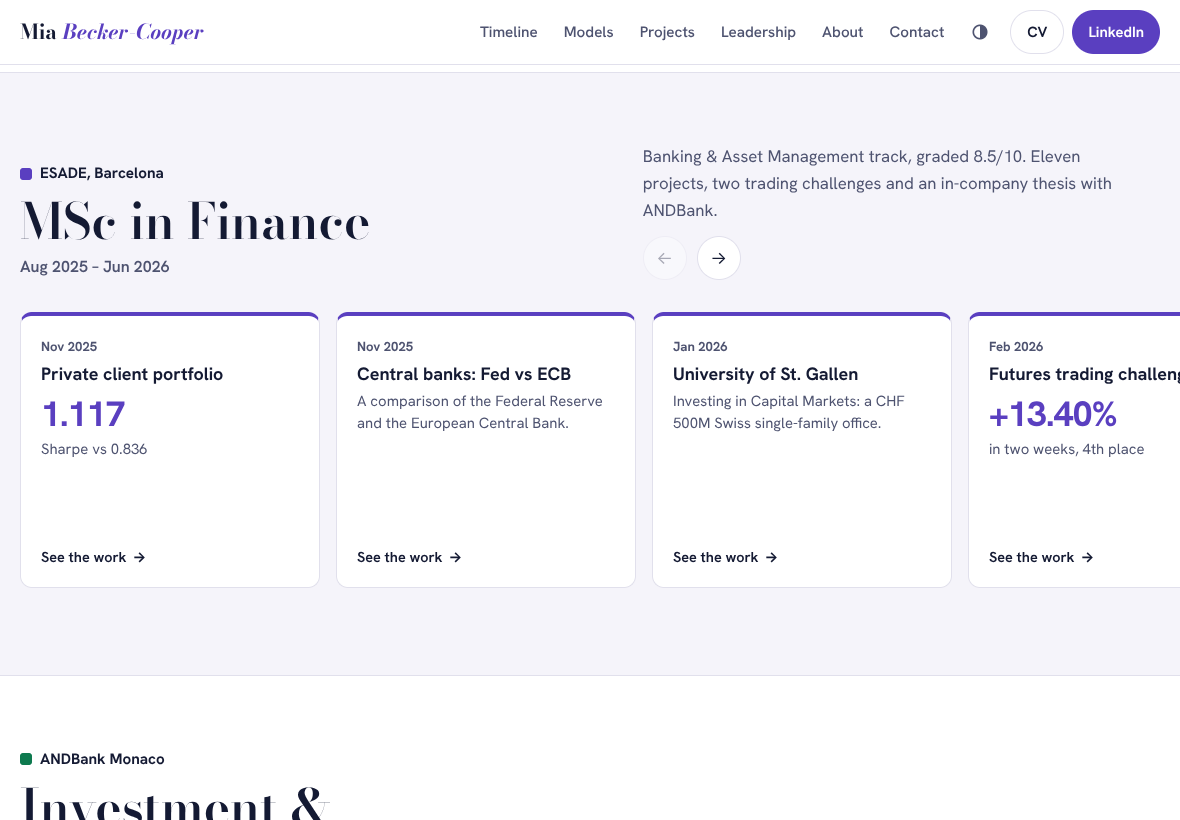
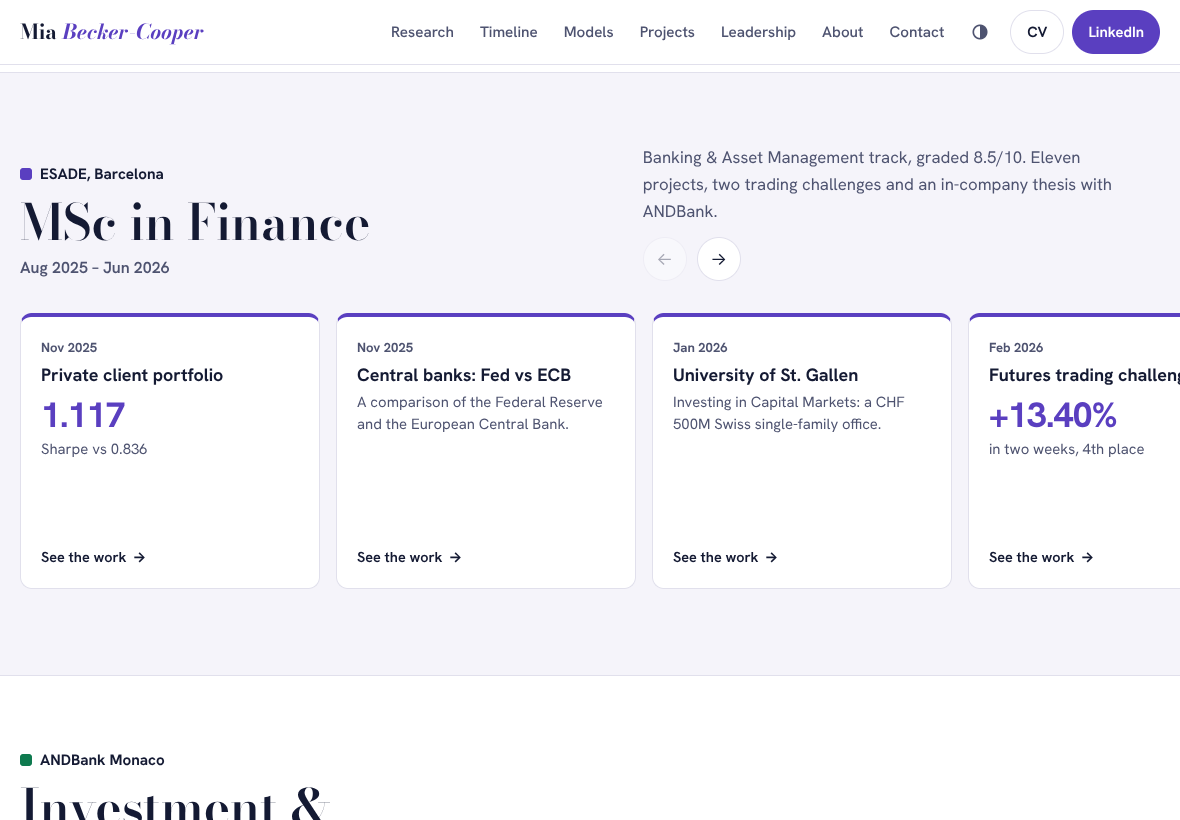
Add Selected research exhibit with chart previews from real numbers; personality type
- Four cards: IAG sensitivity heatmap, Substrate Sharpe vs deflated Sharpe, Nike valuation distribution, project book by area
- Each card cites its source like a research report and opens the matching live model
- About: ENFJ-A (Protagonist), type only
- Exhibits renumbered; header made more opaque over the ticker

Claude-Session: https://claude.ai/code/session_01PgLPWEbuqbnWUsPYwu5gvj

diff --git a/src/sections/Research.tsx b/src/sections/Research.tsx
@@ -1,0 +1,134 @@
+import { areas, models, projects, research } from "../content/cv";
+import { openModel } from "../lib/modelStore";
+
+const W = 320, H = 180;
+
+/** IAG: the real WACC × g grid as a heatmap. */
+function Heatmap() {
+  const { grid, wacc, g } = models.dcf;
+  const flat = grid.flat(), lo = Math.min(...flat), hi = Math.max(...flat);
+  const L = 40, T = 8, B = 22, cw = (W - L - 6) / g.length, ch = (H - T - B) / wacc.length;
+  return (
+    <>
+      {grid.map((row, i) => row.map((v, j) => {
+        const t = (v - lo) / (hi - lo);
+        return <rect key={`${i}-${j}`} x={L + j * cw} y={T + i * ch} width={cw - 2} height={ch - 2} rx={2}
+          fill="var(--accent)" opacity={0.12 + 0.85 * t} />;
+      }))}
+      {wacc.map((w, i) => (i % 2 === 0 ? <text key={w} x={L - 6} y={T + i * ch + ch / 2 + 4} textAnchor="end" className="rc-t">{w.toFixed(1)}%</text> : null))}
+      {g.map((x, j) => <text key={x} x={L + j * cw + cw / 2} y={H - 6} textAnchor="middle" className="rc-t">{x.toFixed(1)}%</text>)}
+    </>
+  );
+}
+
+/** Substrate: Sharpe and deflated Sharpe for variants A–D. */
+function Variants() {
+  const v = models.backtest.variants, max = 1.2, L = 8, B = 22, T = 10, gw = (W - L * 2) / v.length;
+  const y = (x: number) => T + (1 - x / max) * (H - T - B);
+  return (
+    <>
+      {v.map((d, i) => {
+        const x0 = L + i * gw + gw * 0.18, bw = gw * 0.3;
+        return (
+          <g key={d.id}>
+            <rect x={x0} y={y(d.sharpe)} width={bw} height={y(0) - y(d.sharpe)} rx={2} fill="var(--ink-2)" opacity={0.45} />
+            <rect x={x0 + bw + 3} y={y(d.dsr)} width={bw} height={y(0) - y(d.dsr)} rx={2} fill={d.pitched ? "var(--accent)" : "var(--ink-2)"} />
+            <text x={x0 + bw} y={H - 6} textAnchor="middle" className="rc-t">{d.id}</text>
+          </g>
+        );
+      })}
+      <line x1={L} x2={W - L} y1={y(0)} y2={y(0)} stroke="var(--line)" />
+      <rect x={W - 150} y={T - 2} width={9} height={9} rx={2} fill="var(--ink-2)" opacity={0.45} />
+      <text x={W - 137} y={T + 6} className="rc-t">Sharpe</text>
+      <rect x={W - 86} y={T - 2} width={9} height={9} rx={2} fill="var(--accent)" />
+      <text x={W - 73} y={T + 6} className="rc-t">Deflated</text>
+    </>
+  );
+}
+
+/** Nike: the two-piece lognormal density implied by the reported median, P10 and P90 (drawn, not sampled). */
+function Distribution() {
+  const { median, p10, p90, price } = models.mc;
+  const z = 1.2815515655, sLo = Math.log(median / p10) / z, sHi = Math.log(p90 / median) / z;
+  const pdf = (x: number) => { const s = x < median ? sLo : sHi; const k = Math.log(x / median) / s; return Math.exp(-0.5 * k * k) / (x * s); };
+  const lo = 20, hi = 160, n = 36, L = 8, B = 22, T = 10;
+  const xs = Array.from({ length: n }, (_, i) => lo + ((i + 0.5) * (hi - lo)) / n);
+  const ds = xs.map(pdf), max = Math.max(...ds), bw = (W - L * 2) / n;
+  const X = (v: number) => L + ((v - lo) / (hi - lo)) * (W - L * 2);
+  return (
+    <>
+      {xs.map((x, i) => {
+        const h = (ds[i] / max) * (H - T - B);
+        return <rect key={i} x={L + i * bw + 1} y={H - B - h} width={bw - 2} height={h} rx={1} fill={x < price ? "var(--loss)" : "var(--accent)"} opacity={0.85} />;
+      })}
+      <line x1={X(price)} x2={X(price)} y1={T} y2={H - B} stroke="var(--ink)" strokeDasharray="3 3" />
+      <text x={X(price) - 4} y={T + 10} textAnchor="end" className="rc-t rc-halo">Price ${price.toFixed(2)}</text>
+      <text x={W - L} y={T + 10} textAnchor="end" className="rc-t">{models.mc.probLabel}</text>
+      {[40, 80, 120].map((v) => <text key={v} x={X(v)} y={H - 6} textAnchor="middle" className="rc-t">${v}</text>)}
+    </>
+  );
+}
+
+/** Project book: count of projects per area, as a donut. */
+function Allocation() {
+  const counts = areas.filter((a) => a.id !== "all").map((a) => ({ a, n: projects.filter((p) => p.area === a.id).length }));
+  const total = counts.reduce((s, c) => s + c.n, 0), cx = 90, cy = H / 2, r = 62, w = 22;
+  const colour: Record<string, string> = { quant: "var(--steel)", valuation: "var(--violet)", derivatives: "var(--green)", wealth: "#8A6CF0", macro: "var(--ember)" };
+  let acc = 0;
+  return (
+    <>
+      {counts.map(({ a, n }) => {
+        const start = (acc / total) * 2 * Math.PI, end = ((acc + n) / total) * 2 * Math.PI; acc += n;
+        const p = (t: number, rr: number) => `${cx + rr * Math.sin(t)},${cy - rr * Math.cos(t)}`;
+        const large = end - start > Math.PI ? 1 : 0;
+        return <path key={a.id} d={`M${p(start, r)} A${r},${r} 0 ${large} 1 ${p(end - 0.02, r)} L${p(end - 0.02, r - w)} A${r - w},${r - w} 0 ${large} 0 ${p(start, r - w)} Z`} fill={colour[a.id]} />;
+      })}
+      <text x={cx} y={cy + 8} textAnchor="middle" className="rc-big">{total}</text>
+      {counts.map(({ a, n }, i) => (
+        <g key={a.id} transform={`translate(176, ${28 + i * 27})`}>
+          <rect width={10} height={10} rx={2} fill={colour[a.id]} y={-9} />
+          <text x={16} className="rc-l">{a.label} · {n}</text>
+        </g>
+      ))}
+    </>
+  );
+}
+
+const CHARTS = { heatmap: Heatmap, variants: Variants, distribution: Distribution, allocation: Allocation };
+
+export function Research() {
+  return (
+    <section className="block research" id="research" aria-labelledby="research-title">
+      <div className="wrap">
+        <div className="sec-top">
+          <div>
+            <p className="kicker">{research.label}</p>
+            <h2 className="section-title" id="research-title">{research.title}</h2>
+          </div>
+          <p className="section-intro">{research.intro}</p>
+        </div>
+        <ul className="rcards">
+          {research.cards.map((c) => {
+            const Chart = CHARTS[c.kind];
+            return (
+              <li key={c.kind}>
+                <article className="rcard">
+                  <div className="rchart">
+                    <svg viewBox={`0 0 ${W} ${H}`} role="img" aria-label={`${c.title}: ${c.body}`}><Chart /></svg>
+                  </div>
+                  <p className="rsub">{c.sub}</p>
+                  <h3>{c.title}</h3>
+                  <p className="rbody">{c.body}</p>
+                  <p className="rsrc">{c.source}</p>
+                  {c.model
+                    ? <button type="button" className="rcta" onClick={() => openModel(c.model)}>{c.cta} <span aria-hidden="true">→</span></button>
+                    : <a className="rcta" href="#projects">{c.cta} <span aria-hidden="true">→</span></a>}
+                </article>
+              </li>
+            );
+          })}
+        </ul>
+      </div>
+    </section>
+  );
+}

diff --git a/src/content/cv.ts b/src/content/cv.ts
@@ -26,6 +26,7 @@ export const identity = {
 };
 
 export const nav = [
+  { label: "Research", href: "#research" },
   { label: "Timeline", href: "#timeline" },
   { label: "Models", href: "#models" },
   { label: "Projects", href: "#projects" },
@@ -53,10 +54,28 @@ export const ticker = [
   "MSc thesis ▲ 85%",
 ];
 
+/* ---------------- Selected research: chart previews from real numbers ---------------- */
+
+export const research = {
+  label: "Exhibit 1 · Selected research",
+  title: "The work, in four charts",
+  intro: "Each chart is drawn from the numbers in the final report. Open one to move the inputs yourself.",
+  cards: [
+    { kind: "heatmap", title: "Equity valuation", sub: "IAG · DCF sensitivity", body: "Value per share across 9 discount rates and 5 growth rates. Every cell stays above the €4.60 share price.",
+      source: "Source: IAG valuation, Corporate Valuation, Mar 2026. Team 6.", model: "dcf", cta: "Move the inputs" },
+    { kind: "variants", title: "Systematic investing", sub: "Substrate Capital · simulated", body: "Four versions tested and all reported. Deflating the Sharpe ratio separates the 130/30 books from noise.",
+      source: "Source: Substrate Capital pitch, Asset Management, Jun 2026. Simulated backtest.", model: "backtest", cta: "Open the backtest lab" },
+    { kind: "distribution", title: "Probabilistic valuation", sub: "Nike · Monte Carlo", body: "A distribution instead of a point estimate: about 75% of outcomes above the $52.40 share price.",
+      source: "Source: Nike activist valuation, Mar 2026. Simulated, reconstructed from the reported median and P10–P90.", model: "mc", cta: "Rerun the simulation" },
+    { kind: "allocation", title: "Project book", sub: "11 projects · by area", body: "Where the work sits: valuation, quant and trading, derivatives and rates, wealth management and macro.",
+      source: "Source: finance-portfolio repository, Nov 2025 – Jun 2026.", model: "", cta: "Browse the projects" },
+  ] as { kind: "heatmap" | "variants" | "distribution" | "allocation"; title: string; sub: string; body: string; source: string; model: string; cta: string }[],
+};
+
 /* ---------------- Timeline: four chapters ---------------- */
 
 export const timeline = {
-  label: "Exhibit 1 · Career timeline",
+  label: "Exhibit 2 · Career timeline",
   title: "From engineering to the trading desk",
   intro: "Four chapters on one time axis. Tap a bar to jump to it, then swipe through the chapter; tap a project to see the actual work.",
   thesisMarker: "Thesis",
@@ -142,7 +161,7 @@ export const chapters: Chapter[] = [
 ];
 
 export const method = {
-  label: "Exhibit 2 · Investment process",
+  label: "Exhibit 3 · Investment process",
   title: "Engineering thinking, applied to investing",
   intro:
     "An engineer doesn't trust a machine until it has been taken apart, modelled and load-tested. I treat an investment case the same way.",
@@ -193,7 +212,7 @@ export const method = {
 /* ---------------- Live models ---------------- */
 
 export const models = {
-  label: "Exhibit 3 · Live models",
+  label: "Exhibit 4 · Live models",
   title: "Don't take my word for it. Move the inputs.",
   intro:
     "Four models rebuilt from my projects, with the numbers from the final reports. Change an assumption and watch the conclusion hold or break.",
@@ -261,6 +280,7 @@ export const models = {
     p10: 44,
     p90: 99,
     run: "Rerun the simulation",
+    probLabel: "P(V > price) ≈ 75%",
     note:
       "Simulated, reconstructed from the distribution in our report: median $65, P10–P90 $44–$99, about 75% above the $52.40 share price. Dashed lines: share price $52.40 and management case $69.05.",
   },
@@ -292,7 +312,7 @@ export const areas: { id: ProjectArea | "all"; label: string }[] = [
 const roleTodo: Text = { todo: "Mia's role on this project is not in FACTS.md yet" };
 
 export const deals = {
-  label: "Exhibit 4 · Project book",
+  label: "Exhibit 5 · Project book",
   title: "The deal wall",
   intro:
     "Bankers get a tombstone for every closed deal. These are mine. Tap one to flick through the actual work.",
@@ -506,6 +526,7 @@ export const about = {
     { name: "German", level: "Intermediate" },
     { name: "Spanish", level: "Learning" },
   ],
+  personality: { type: "ENFJ-A", name: "Protagonist", note: "16Personalities: a diplomat type who leads through people." },
 };
 
 export const contact = {

diff --git a/src/styles/base.css b/src/styles/base.css
@@ -33,7 +33,7 @@ section.block { padding-block: clamp(64px, 9vw, 112px); }
 .btns { display: flex; flex-wrap: wrap; gap: 12px; }
 
 /* ---------- Header ---------- */
-.top { position: sticky; top: env(safe-area-inset-top, 0px); z-index: 40; background: color-mix(in srgb, var(--paper) 90%, transparent); backdrop-filter: saturate(1.4) blur(14px); -webkit-backdrop-filter: saturate(1.4) blur(14px); border-bottom: 1px solid var(--line); }
+.top { position: sticky; top: env(safe-area-inset-top, 0px); z-index: 40; background: color-mix(in srgb, var(--paper) 97%, transparent); backdrop-filter: saturate(1.4) blur(14px); -webkit-backdrop-filter: saturate(1.4) blur(14px); border-bottom: 1px solid var(--line); }
 body::before { content: ""; position: fixed; inset: 0 0 auto; height: env(safe-area-inset-top, 0px); z-index: 41; background: var(--paper); }
 .top .wrap { display: flex; align-items: center; justify-content: space-between; gap: 12px; height: var(--header-h); }
 .wordmark { font-family: var(--display); font-weight: 700; font-size: 1.3rem; text-decoration: none; white-space: nowrap; display: inline-flex; align-items: center; min-height: 44px; }
@@ -328,3 +328,23 @@ footer.foot .wrap { display: flex; justify-content: space-between; gap: 12px; fl
   html { scroll-behavior: auto; }
   *, *::before, *::after { transition-duration: 0.01ms !important; animation-duration: 0.01ms !important; }
 }
+
+/* ---------- Selected research: chart cards, research-report style ---------- */
+.research { padding-top: clamp(56px, 8vw, 96px); }
+.rcards { display: grid; grid-template-columns: repeat(4, minmax(0, 1fr)); gap: 18px; margin: 36px 0 0; padding: 0; list-style: none; }
+.rcard { height: 100%; display: flex; flex-direction: column; gap: 6px; border-top: 3px solid var(--ink); padding-top: 14px; }
+.rchart { background: var(--paper-2); border: 1px solid var(--line); border-radius: var(--radius-sm); padding: 10px; margin-bottom: 8px; }
+.rchart svg { width: 100%; height: auto; display: block; }
+.rc-t { fill: var(--ink-2); font-size: 11px; font-family: var(--body); font-variant-numeric: tabular-nums; }
+.rc-halo { paint-order: stroke; stroke: var(--paper-2); stroke-width: 4px; }
+.rc-l { fill: var(--ink); font-size: 12px; font-weight: 600; font-family: var(--body); }
+.rc-big { fill: var(--ink); font-size: 26px; font-weight: 800; font-family: var(--body); }
+.rsub { font-size: 0.82rem; font-weight: 700; color: var(--accent); }
+.rcard h3 { font-family: var(--display); font-weight: 600; font-size: 1.5rem; line-height: 1.08; }
+.rbody { font-size: 0.93rem; color: var(--ink-2); }
+.rsrc { font-size: 0.76rem; color: var(--ink-2); font-style: italic; border-top: 1px solid var(--line); padding-top: 8px; margin-top: auto; }
+.rcta { align-self: flex-start; border: 0; background: none; padding: 6px 0; font-weight: 700; color: var(--accent); cursor: pointer; text-decoration: none; display: inline-flex; gap: 6px; min-height: 44px; align-items: center; }
+@media (max-width: 1100px) { .rcards { grid-template-columns: repeat(2, minmax(0, 1fr)); } }
+@media (max-width: 600px) { .rcards { grid-template-columns: minmax(0, 1fr); } }
+.persona b { font-size: 1.1rem; }
+.persona span { color: var(--ink-2); font-size: 0.92rem; display: block; }

diff --git a/src/sections/models/Lab.tsx b/src/sections/models/Lab.tsx
@@ -1,4 +1,5 @@
-import { useRef, useState, type KeyboardEvent } from "react";
+import { useEffect, useRef, useState, type KeyboardEvent } from "react";
+import { clearPendingModel, EVENT, peekPendingModel } from "../../lib/modelStore";
 import { models } from "../../content/cv";
 import { BacktestLab } from "./BacktestLab";
 import { DcfGrid } from "./DcfGrid";
@@ -9,7 +10,13 @@ const PANELS = { backtest: BacktestLab, dcf: DcfGrid, mc: MonteCarlo, gbm: GbmPa
 type Id = keyof typeof PANELS;
 
 export default function Lab() {
-  const [tab, setTab] = useState<Id>("backtest");
+  const [tab, setTab] = useState<Id>(() => (peekPendingModel() as Id | null) ?? "backtest");
+  useEffect(() => {
+    clearPendingModel();
+    const on = (e: Event) => { const id = (e as CustomEvent<string>).detail as Id; if (id in PANELS) { clearPendingModel(); setTab(id); } };
+    window.addEventListener(EVENT, on);
+    return () => window.removeEventListener(EVENT, on);
+  }, []);
   const refs = useRef<(HTMLButtonElement | null)[]>([]);
   const ids = models.tabs.map((t) => t.id as Id);
   const onKey = (e: KeyboardEvent, i: number) => {

diff --git a/tests/keyboard.spec.ts b/tests/keyboard.spec.ts
@@ -36,3 +36,11 @@ test("project viewer: page through and link to GitHub", async ({ page }) => {
   await page.keyboard.press("Escape");
   await expect(first).toBeFocused();
 });
+
+test("research cards open the matching live model", async ({ page }) => {
+  await page.goto("./");
+  await page.getByRole("button", { name: /Move the inputs/ }).click();
+  await expect(page.getByRole("tab", { name: /DCF sensitivity/ })).toHaveAttribute("aria-selected", "true", { timeout: 10_000 });
+  await page.getByRole("button", { name: /Rerun the simulation/ }).first().click();
+  await expect(page.getByRole("tab", { name: /Monte Carlo/ })).toHaveAttribute("aria-selected", "true");
+});

diff --git a/src/lib/modelStore.ts b/src/lib/modelStore.ts
@@ -1,0 +1,13 @@
+/** Lets other sections open a specific live-model tab. The Lab loads lazily, so the request is kept until it mounts. */
+let pending: string | null = null;
+export const EVENT = "mbc:model";
+
+export function openModel(id: string) {
+  pending = id;
+  window.dispatchEvent(new CustomEvent(EVENT, { detail: id }));
+  document.getElementById("models")?.scrollIntoView({ behavior: "smooth", block: "start" });
+}
+
+/** Read without clearing (safe to call twice, as React's strict mode does with state initialisers). */
+export const peekPendingModel = () => pending;
+export function clearPendingModel() { pending = null; }

diff --git a/src/App.tsx b/src/App.tsx
@@ -5,6 +5,7 @@ import { Leadership } from "./sections/Leadership";
 import { Method } from "./sections/Method";
 import { Models } from "./sections/models/Models";
 import { Projects } from "./sections/Projects";
+import { Research } from "./sections/Research";
 import { Ticker } from "./sections/Ticker";
 import { Timeline } from "./sections/Timeline";
 import { ViewerHost } from "./sections/ViewerHost";
@@ -18,6 +19,7 @@ export function App() {
       <main id="main">
         <Hero />
         <Ticker />
+        <Research />
         <Timeline />
         <Method />
         <Models />

diff --git a/src/sections/About.tsx b/src/sections/About.tsx
@@ -52,6 +52,8 @@ export function About() {
                 </div>
               ))}
             </dl>
+            <h3 style={{ marginTop: 32 }}>Personality</h3>
+            <p className="persona"><b>{about.personality.type}</b> {about.personality.name}. <span>{about.personality.note}</span></p>
             <h3 style={{ marginTop: 32 }}>Skills</h3>
             <dl className="skills">
               {L.skills.map((s) => <div key={s.group}><dt>{s.group}</dt><dd>{s.items}</dd></div>)}

diff --git a/tests/helpers.ts b/tests/helpers.ts
@@ -1,6 +1,6 @@
 import type { Page } from "@playwright/test";
 
-export const SECTIONS = ["timeline", "bristol", "esade", "andbank", "cbs", "method", "models", "projects", "leadership", "about", "contact"];
+export const SECTIONS = ["research", "timeline", "bristol", "esade", "andbank", "cbs", "method", "models", "projects", "leadership", "about", "contact"];
 
 /** Scroll the whole page in steps so lazy sections and images load. */
 export async function scrollThrough(page: Page) {

diff --git a/source/FACTS.md b/source/FACTS.md
@@ -82,6 +82,7 @@ Share price €4.60. Base case WACC 7.2%, g 2.0% → €10.17.
 - Pilates and dance.
 - Volunteers at homeless shelters (see Wild Goose Shelter, Bristol, 2023–24).
 - Builds AI agents (see Hermes and the 16-skill AI library at ANDBank).
+- Personality test (16Personalities, Oct 2026): ENFJ-A, Protagonist, role Diplomat, strategy People Mastery. Show the type only, not the trait percentages.
 
 ## Photos (source/photos, supplied by Mia, Oct 2026)
 - portrait-hallway.jpg: Mia, arms crossed, white hallway. Hero.
